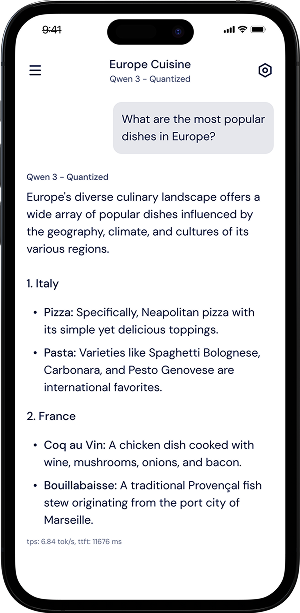
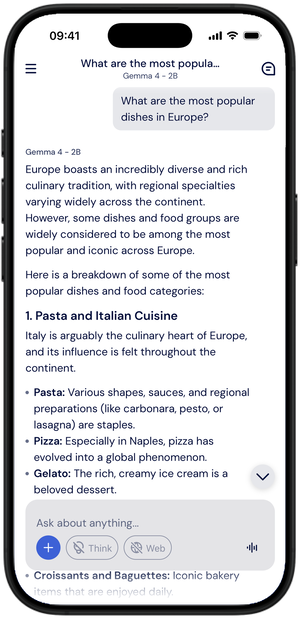
fix(onboarding): render the illustrations at their native size and clear the skip control
The step_* illustrations are 900 px wide in their @3x variant, which is
exactly 300 pt of screen. Drawing them 340 pt wide asked a three-times
display for 1020 px and the system stretched the file by a eighth, which
a high-contrast device bezel shows as stair-stepped edges. The width is
now capped at the size the files actually carry, so nothing is resampled.
The welcome artwork on the intro is a vector with no such ceiling and
keeps its own, larger cap.

Illustrations cropped at the top run to the top of the screen so they can
dissolve rather than end on a cut, but that put their content under the
skip control. Their fade now stays fully opaque down to the clearance the
control sits in and only then gives way to the picture.

step_chat was a conversation from an older build, down to a "What's New"
card three releases out of date, and it is replaced by a capture from the
current one. The status bar comes from step_websearch so the clock reads
09:41 as it does on its siblings; the old file also carried a stray rule
struck through the time, which does not survive the swap.

diff --git a/components/onboarding/OnboardingSlide.tsx b/components/onboarding/OnboardingSlide.tsx
@@ -26,10 +26,13 @@ import {
   TITLE_LEAD,
 } from '../../constants/onboarding';
 
-const CROP_FADE_LOCATIONS: [number, number, ...number[]] = [
-  0, 0.25, 0.5, 0.75, 1,
+const CROP_RAMP: [number, number][] = [
+  [0, 1],
+  [0.25, 0.844],
+  [0.5, 0.5],
+  [0.75, 0.156],
+  [1, 0],
 ];
-const CROP_FADE_ALPHAS = [1, 0.844, 0.5, 0.156, 0];
 
 interface Props {
   slide: Slide;
@@ -64,15 +67,23 @@ function OnboardingSlide({
 
   const Icon = slide.icon.art;
   const anchoredTop = slide.illustration.anchor === 'top';
-  const cropFadeColors = CROP_FADE_ALPHAS.map((alpha, stop) =>
-    withAlpha(
-      mixColors(
-        theme.bg.softPrimary,
-        theme.bg.main,
-        (CROP_FADE_LOCATIONS[stop] * CROP_FADE) / pageHeight
-      ),
-      alpha
-    )
+  const cropClearance = theme.insets.top + ILLUSTRATION_TOP_CLEARANCE;
+  const cropHeight = cropClearance + CROP_FADE;
+  const clearStop = cropClearance / cropHeight;
+  const cropFadeLocations = [
+    0,
+    ...CROP_RAMP.map(([at]) => clearStop + (1 - clearStop) * at),
+  ] as [number, number, ...number[]];
+  const cropFadeColors = [1, ...CROP_RAMP.map(([, alpha]) => alpha)].map(
+    (alpha, stop) =>
+      withAlpha(
+        mixColors(
+          theme.bg.softPrimary,
+          theme.bg.main,
+          (cropFadeLocations[stop] * cropHeight) / pageHeight
+        ),
+        alpha
+      )
   ) as [string, string, ...string[]];
 
   const start = (index - 1) * pageWidth;
@@ -178,8 +189,8 @@ function OnboardingSlide({
         {!anchoredTop && (
           <LinearGradient
             colors={cropFadeColors}
-            locations={CROP_FADE_LOCATIONS}
-            style={styles.cropFade}
+            locations={cropFadeLocations}
+            style={[styles.cropFade, { height: cropHeight }]}
             pointerEvents="none"
           />
         )}
@@ -242,7 +253,6 @@ const createStyles = (theme: Theme) =>
       top: 0,
       left: 0,
       right: 0,
-      height: CROP_FADE,
     },
     textClip: {
       position: 'absolute',

diff --git a/components/onboarding/OnboardingIntroPanel.tsx b/components/onboarding/OnboardingIntroPanel.tsx
@@ -15,10 +15,10 @@ import {
   CARD_INSET,
   CONTENT_PADDING,
   ILLUSTRATION_CLEARANCE,
-  ILLUSTRATION_MAX_WIDTH,
   ILLUSTRATION_SIDE_INSET,
   INTRO_ART,
   INTRO_ART_ASPECT_RATIO,
+  INTRO_ART_MAX_WIDTH,
   INTRO_FADE_MS,
   INTRO_STAGGER_MS,
   TEXT_CONTROLS_GAP,
@@ -43,7 +43,7 @@ function OnboardingIntroPanel({ onPressStart }: Props) {
   const blockTop = CARD_INSET + theme.insets.bottom + blockHeight;
   const zoneHeight = Math.max(height - blockTop - ILLUSTRATION_CLEARANCE, 0);
   const artHeight = Math.min(
-    Math.min(width - ILLUSTRATION_SIDE_INSET * 2, ILLUSTRATION_MAX_WIDTH) /
+    Math.min(width - ILLUSTRATION_SIDE_INSET * 2, INTRO_ART_MAX_WIDTH) /
       INTRO_ART_ASPECT_RATIO,
     zoneHeight
   );

diff --git a/constants/onboarding.ts b/constants/onboarding.ts
@@ -29,7 +29,7 @@ export interface OnboardingSlide {
 
 export const INTRO_ART = WelcomeArt;
 export const INTRO_ART_ASPECT_RATIO = 300 / 420;
-export const CHAT_ART_ASPECT_RATIO = 300 / 613;
+export const CHAT_ART_ASPECT_RATIO = 300 / 618;
 
 export const ONBOARDING_SLIDES: OnboardingSlide[] = [
   {
@@ -100,7 +100,8 @@ export const DOT_SIZE = 6;
 export const DOT_ACTIVE_WIDTH = 20;
 export const DOT_GAP = 6;
 
-export const ILLUSTRATION_MAX_WIDTH = 340;
+export const ILLUSTRATION_MAX_WIDTH = 300;
+export const INTRO_ART_MAX_WIDTH = 340;
 export const ILLUSTRATION_SIDE_INSET = 24;
 export const ILLUSTRATION_TOP_CLEARANCE = 48;
 export const CROP_FADE = 160;
